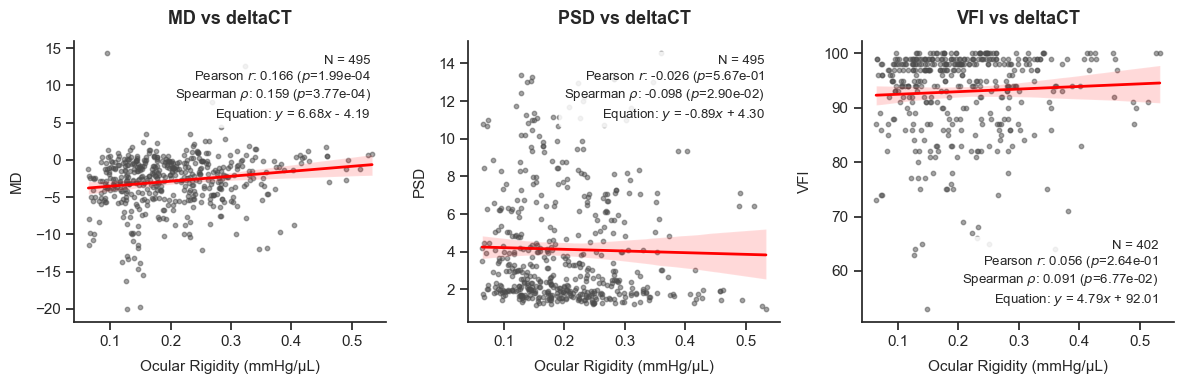
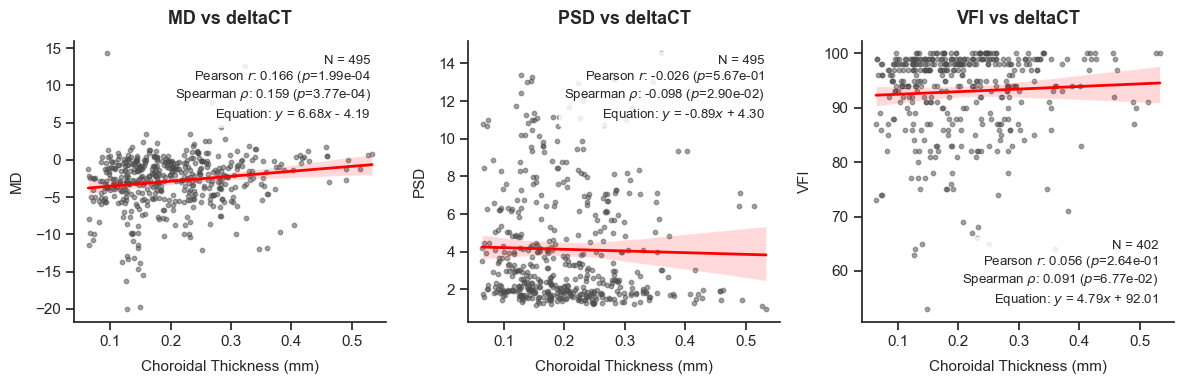
Built site for gh-pages

diff --git a/chapters/review/review.html b/chapters/review/review.html
@@ -368,7 +368,7 @@ More about CSF-P
 <p><span class="citation" data-cites="Sayah2020-ym">Sayah et al. (<a href="../../references.html#ref-Sayah2020-ym" role="doc-biblioref">2020</a>)</span> aims to evaluate the relationship between OR and neuroretinal damage caused by glaucoma. Significant positive correlations were found between OR and minimum GCC thickness (r = 0.325, P = 0.001), average GCC thickness (r = 0.320, P = 0.002), rim area (r = 0.344, P &lt; 0.001), and RNFL thickness in the superior (r = 0.225, P = 0.023), and inferior (r = 0.281, P = 0.004) quadrants. These correlations were generally greater than those found for CCT, CH, and CRF. Furthermore, no correlation was found between OR and corneal biomechanical parameters. Cohort: 108 subjects (22 healthy, 23 suspected glaucoma, and 63 glaucoma (early to advance)). The main results are sumarized in <a href="#fig-ocular-rigidity-neuroretinal-damage" class="quarto-xref">Figure&nbsp;<span>2.1</span></a>, which represents the partial correlation between OR and neuroretinal damage, adjusted for age, sex, and axial length.</p>
 <div id="cell-fig-ocular-rigidity-neuroretinal-damage" class="cell" data-execution_count="3">
 <div class="cell-output cell-output-display">
-<div id="fig-ocular-rigidity-neuroretinal-damage" class="quarto-float quarto-figure quarto-figure-center anchored" width="938" height="361">
+<div id="fig-ocular-rigidity-neuroretinal-damage" class="quarto-float quarto-figure quarto-figure-center anchored" height="361" width="938">
 <figure class="quarto-float quarto-float-fig figure">
 <div aria-describedby="fig-ocular-rigidity-neuroretinal-damage-caption-0ceaefa1-69ba-4598-a22c-09a6ac19f8ca">
 <img src="review_files/figure-html/fig-ocular-rigidity-neuroretinal-damage-output-1.png" id="fig-ocular-rigidity-neuroretinal-damage" width="938" height="361" class="figure-img">
@@ -386,7 +386,7 @@ Figure&nbsp;2.1
 <p><span class="citation" data-cites="Bojikian2026-sq">Bojikian et al. (<a href="../../references.html#ref-Bojikian2026-sq" role="doc-biblioref">2026</a>)</span> published a study to evaluate the association between ocular biometric parameters and scleral rigidity as measured by fundus pulsation optical coherence elastography (FP-OCE) in eyes with and without glaucoma. The study included 58 eyes with glaucoma and 36 control eyes. In <a href="#fig-scleral-rigidity-ocular-biometric-parameters" class="quarto-xref">Figure&nbsp;<span>2.2</span></a>, we see the choroidal max strain in glaucoma vs normal eyes they obtain. In short, higher maximum choroidal strain (which is either a more pulsatile choroid or a thinner choroid) is midly associated with glaucoma, which in turns indicate that a lower ocular rigidity is associated with glaucoma.</p>
 <div id="cell-fig-scleral-rigidity-ocular-biometric-parameters" class="cell" data-execution_count="4">
 <div class="cell-output cell-output-display">
-<div id="fig-scleral-rigidity-ocular-biometric-parameters" class="quarto-float quarto-figure quarto-figure-center anchored" width="554" height="362">
+<div id="fig-scleral-rigidity-ocular-biometric-parameters" class="quarto-float quarto-figure quarto-figure-center anchored" height="362" width="554">
 <figure class="quarto-float quarto-float-fig figure">
 <div aria-describedby="fig-scleral-rigidity-ocular-biometric-parameters-caption-0ceaefa1-69ba-4598-a22c-09a6ac19f8ca">
 <img src="review_files/figure-html/fig-scleral-rigidity-ocular-biometric-parameters-output-1.png" id="fig-scleral-rigidity-ocular-biometric-parameters" width="554" height="362" class="figure-img">
@@ -405,7 +405,7 @@ Figure&nbsp;2.2
 <p>The coneaosclera properties were measured using with a Corvis ST, a non contact tonometer coupled with a high-speed Scheimpflug camera. The corneal stiffness was measured using the stiffness parameter at the first applanation (SP-A1). The scleral stiffness was measured using the stiffness parameter at the highest concavity (SP-HC). The results (figure <a href="#fig-scleral-rigidity-glaucoma-vs-healthy" class="quarto-xref">Figure&nbsp;<span>2.3</span></a>) they obntain are not significant due to a very small cohort (n=6 for glaucoma, n=23 for control)</p>
 <div id="cell-fig-scleral-rigidity-glaucoma-vs-healthy" class="cell" data-execution_count="5">
 <div class="cell-output cell-output-display">
-<div id="fig-scleral-rigidity-glaucoma-vs-healthy" class="quarto-float quarto-figure quarto-figure-center anchored" width="573" height="362">
+<div id="fig-scleral-rigidity-glaucoma-vs-healthy" class="quarto-float quarto-figure quarto-figure-center anchored" height="362" width="573">
 <figure class="quarto-float quarto-float-fig figure">
 <div aria-describedby="fig-scleral-rigidity-glaucoma-vs-healthy-caption-0ceaefa1-69ba-4598-a22c-09a6ac19f8ca">
 <img src="review_files/figure-html/fig-scleral-rigidity-glaucoma-vs-healthy-output-1.png" id="fig-scleral-rigidity-glaucoma-vs-healthy" width="573" height="362" class="figure-img">

diff --git a/chapters/analysis/cross_sectional_study.html b/chapters/analysis/cross_sectional_study.html
@@ -300,7 +300,7 @@ Missing patients
 </div>
 <p>Using a Mann-Whitney U test, Holm-corrected, we found out the only significant different between the groups was between the Normal and GPAO groups for <span class="math inline">\(\Delta\)</span>CT. The other comparisons were not significant (p&gt;0.05). The results are summarized in <a href="#fig-cross-sectional-study" class="quarto-xref">Figure&nbsp;<span>6.1</span></a>.</p>
 <div class="quarto-embed-nb-cell" data-notebook="/home/runner/work/OcularRigidity/OcularRigidity/manuscript/notebooks/cross_sectional_study.ipynb" data-notebook-cellid="cell-fig-cross-sectional-study">
-<div id="cell-fig-cross-sectional-study" class="cell" data-execution_count="9">
+<div id="cell-fig-cross-sectional-study" class="cell" data-execution_count="15">
 <div class="cell-output cell-output-display">
 <div id="fig-cross-sectional-study" class="quarto-float quarto-figure quarto-figure-center anchored">
 <figure class="quarto-float quarto-float-fig figure">
@@ -316,6 +316,36 @@ Figure&nbsp;6.1
 </div>
 </div>
 <p>This contredicts previous results from <span class="citation" data-cites="Sayah2020-ym">Sayah et al. (<a href="../../references.html#ref-Sayah2020-ym" role="doc-biblioref">2020</a>)</span>, which found a significant difference in ocular rigidity between the normal and glaucoma groups (glaucoma having less rigid eyes).</p>
+<div class="quarto-embed-nb-cell" data-notebook="/home/runner/work/OcularRigidity/OcularRigidity/manuscript/notebooks/cross_sectional_study.ipynb" data-notebook-cellid="cell-fig-cross-sectional-study-severity">
+<div id="cell-fig-cross-sectional-study-severity" class="cell">
+<div class="cell-output cell-output-error">
+<div class="ansi-escaped-output">
+<pre><span class="ansi-red-fg">---------------------------------------------------------------------------</span>
+<span class="ansi-red-fg">IndexError</span>                                Traceback (most recent call last)
+Cell <span class="ansi-green-fg">In[16], line 67</span>
+<span class="ansi-green-fg ansi-bold">     65</span> axes <span style="color:rgb(98,98,98)">=</span> axes<span style="color:rgb(98,98,98)">.</span>flatten()
+<span class="ansi-green-fg ansi-bold">     66</span> <span style="font-weight:bold;color:rgb(0,135,0)">for</span> i, (var, label) <span style="font-weight:bold;color:rgb(175,0,255)">in</span> <span style="color:rgb(0,135,0)">enumerate</span>(variables_to_test):
+<span class="ansi-green-fg">---&gt; 67</span>     ax <span style="color:rgb(98,98,98)">=</span> <span class="ansi-yellow-bg">axes</span><span class="ansi-yellow-bg">[</span><span class="ansi-yellow-bg">i</span><span class="ansi-yellow-bg">]</span>
+<span class="ansi-green-fg ansi-bold">     68</span>     sns<span style="color:rgb(98,98,98)">.</span>boxenplot(data<span style="color:rgb(98,98,98)">=</span>df, y<span style="color:rgb(98,98,98)">=</span>var, x<span style="color:rgb(98,98,98)">=</span><span style="color:rgb(175,0,0)">"</span><span style="color:rgb(175,0,0)">Type</span><span style="color:rgb(175,0,0)">"</span>, order<span style="color:rgb(98,98,98)">=</span>ORDER, ax<span style="color:rgb(98,98,98)">=</span>ax)
+<span class="ansi-green-fg ansi-bold">     69</span>     ax<span style="color:rgb(98,98,98)">.</span>set_title(label)
+
+<span class="ansi-red-fg">IndexError</span>: index 6 is out of bounds for axis 0 with size 6</pre>
+</div>
+</div>
+<div class="cell-output cell-output-display">
+<div id="fig-cross-sectional-study-severity" class="quarto-float quarto-figure quarto-figure-center anchored">
+<figure class="quarto-float quarto-float-fig figure">
+<div aria-describedby="fig-cross-sectional-study-severity-caption-0ceaefa1-69ba-4598-a22c-09a6ac19f8ca">
+<img src="cross_sectional_study_files/figure-html/..-..-notebooks-cross_sectional_study-fig-cross-sectional-study-severity-output-2.png" id="fig-cross-sectional-study-severity" class="img-fluid figure-img">
+</div>
+<figcaption class="quarto-float-caption-bottom quarto-float-caption quarto-float-fig quarto-uncaptioned" id="fig-cross-sectional-study-severity-caption-0ceaefa1-69ba-4598-a22c-09a6ac19f8ca">
+Figure&nbsp;6.2
+</figcaption>
+</figure>
+</div>
+</div>
+</div>
+</div>
 
 
 <div id="refs" class="references csl-bib-body hanging-indent" data-entry-spacing="0" role="list" style="display: none">

diff --git a/chapters/analysis/correlation_analysis.html b/chapters/analysis/correlation_analysis.html
@@ -423,7 +423,7 @@ Figure&nbsp;7.8
 </div>
 </div>
 <div class="quarto-embed-nb-cell" data-notebook="/home/runner/work/OcularRigidity/OcularRigidity/manuscript/notebooks/plots.ipynb" data-notebook-cellid="cell-fig-CT-vs-MD-PSD-VFI">
-<div id="cell-fig-CT-vs-MD-PSD-VFI" class="cell" data-execution_count="10">
+<div id="cell-fig-CT-vs-MD-PSD-VFI" class="cell" data-execution_count="14">
 <div class="cell-output cell-output-display">
 <div id="fig-ct-vs-md-psd-vfi" class="quarto-float quarto-figure quarto-figure-center anchored">
 <figure class="quarto-float quarto-float-fig figure">
